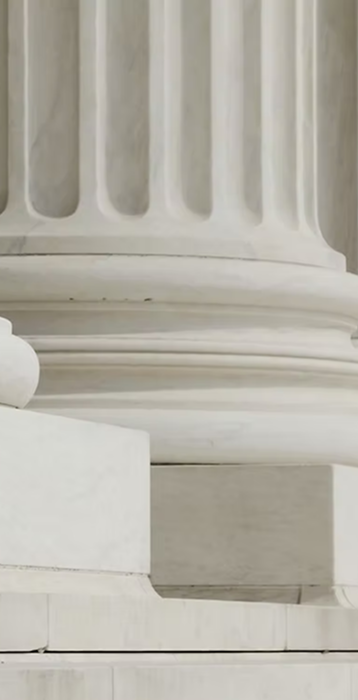
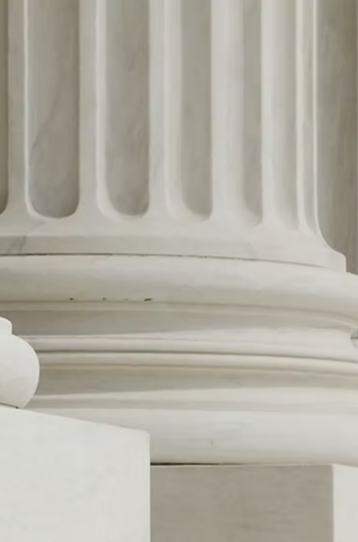
replace columns mobile image and remark practice areas paper paddings

diff --git a/src/components/layout/PracticeAreasPaper.jsx b/src/components/layout/PracticeAreasPaper.jsx
@@ -9,9 +9,9 @@ const practiceAreas = [
 
 function PracticeAreasPaper() {
   return (
-    <div className="relative z-10 mx-auto -mt-43.25 lg:-mt-80 xl:-mt-60 2xl:-mt-80 box-border w-full max-w-232.75 flex flex-col items-center outline-1 outline-accent   -outline-offset-15 bg-white px-6 py-12 text-heading sm:-mt-67 sm:px-10 sm:py-16 lg:px-16">
+    <div className="relative z-10 mx-auto w-[90%] max-w-[900px] -mt-53.25 lg:-mt-80 xl:-mt-60 2xl:-mt-80 box-border  max-w-232.75 flex flex-col items-center outline-1 outline-accent   -outline-offset-15 bg-white px-6 py-12 text-heading sm:-mt-67 sm:px-10 sm:py-16 lg:px-16">
       <div className="mx-auto max-w-3xl text-center flex flex-col items-center">
-    <div className="w-px h-25 bg-heading"></div>
+    <div className="w-px h-18 sm:h-25 bg-heading"></div>
         <h2 className="mt-3 font-volkhov text-3xl font-bold leading-tight sm:text-4xl">
           Practice Areas
         </h2>
@@ -21,14 +21,14 @@ function PracticeAreasPaper() {
         </p>
       </div>
 
-      <div className="mt-10 w-[84%] grid grid-cols-2 gap-x-5 gap-y-6 sm:gap-x-0 sm:gap-y-14">
+      <div className="mt-10 w-full max-w-160 grid grid-cols-2 gap-x-1 gap-y-6 sm:gap-x-0 sm:gap-y-14">
         {practiceAreas.map((area) => (
           <article key={area.name} className="text-center">
-            <div className="mx-auto flex aspect-square w-full max-w-40 items-center justify-center overflow-hidden">
+            <div className="mx-auto flex aspect-square w-25 xs:w-34 md:w-full max-w-40  items-center justify-center overflow-hidden">
               <img
                 src={area.image}
                 alt=""
-                className="h-full w-full object-contain"
+                className="h-full w-full object-contain "
               />
             </div>
             <h3 className="mt-4 font-montserrat text-sm font-semibold leading-5 sm:text-base">
@@ -38,7 +38,7 @@ function PracticeAreasPaper() {
         ))}
       </div>
 
-      <div className=" text-center mt-18">
+      <div className=" text-center mt-11 sm:mt-18">
         <button
           type="button"
           className="font-montserrat  border-accent border pb-1.5 pt-1.5 pl-4 pr-4 text-center text-sm font-medium transition-colors duration-300  hover:text-white hover:bg-accent   text-accent    hover:opacity-70 cursor-pointer"

diff --git a/src/components/layout/PracticalAreasGeneral.jsx b/src/components/layout/PracticalAreasGeneral.jsx
@@ -15,11 +15,11 @@ function PracticalAreasGeneral() {
         <img
           src="/columns/columns-mobile.png"
           alt="Our practice areas"
-          className="block h-auto w-full m-auto lg:max-h-150 lg:max-w-500"
+          className="block h-auto w-full m-auto max-h-130 lg:max-h-150 lg:max-w-500"
         />
       </picture>
       <section
-        className="relative z-0 w-full overflow-visible bg-primary-red px-6 py-16 text-basic sm:px-32 sm:py-20"
+        className="relative z-0 w-full overflow-visible bg-primary-red  py-16 text-basic  sm:py-20"
         aria-label="Practice areas"
       >
         <PracticeAreasPaper></PracticeAreasPaper>
